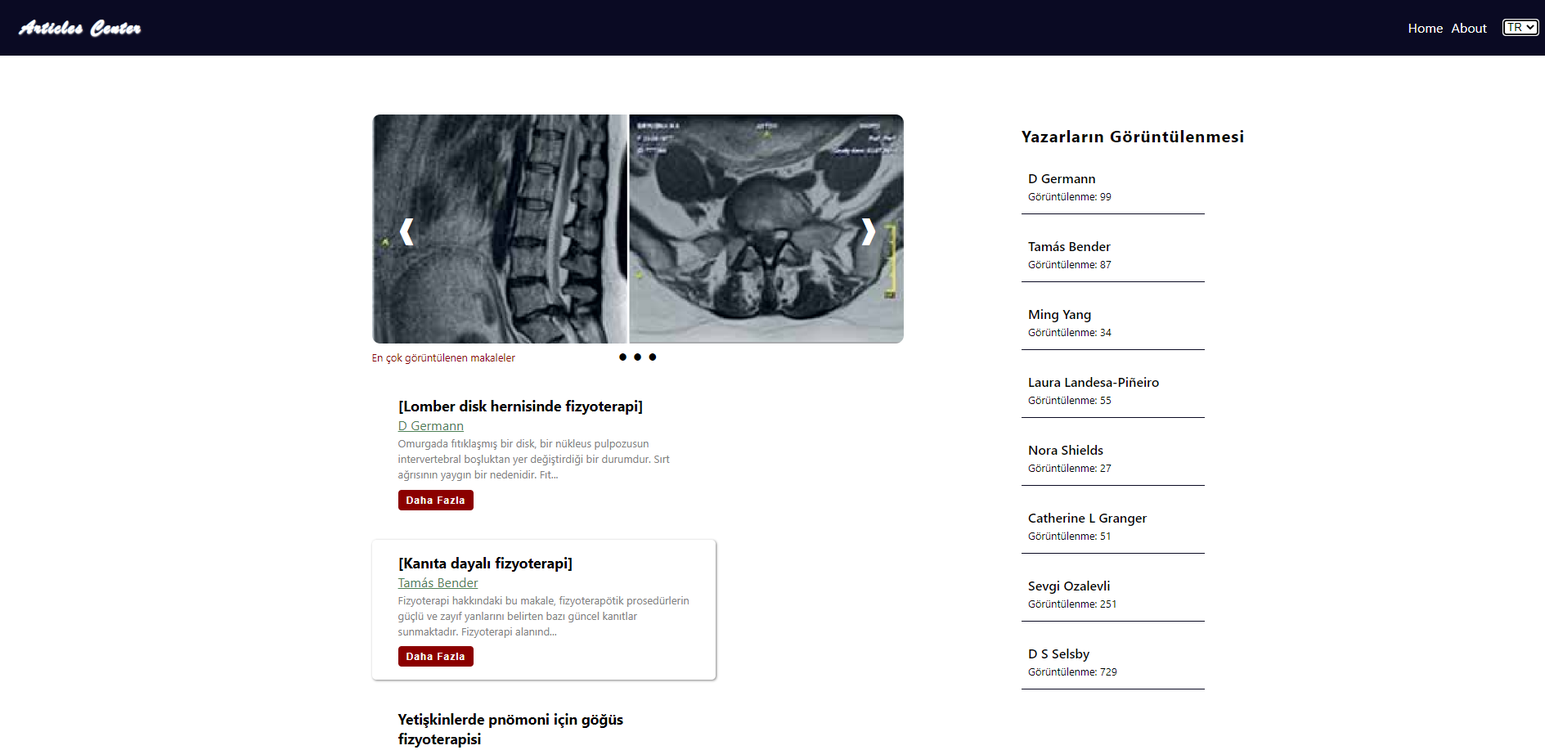
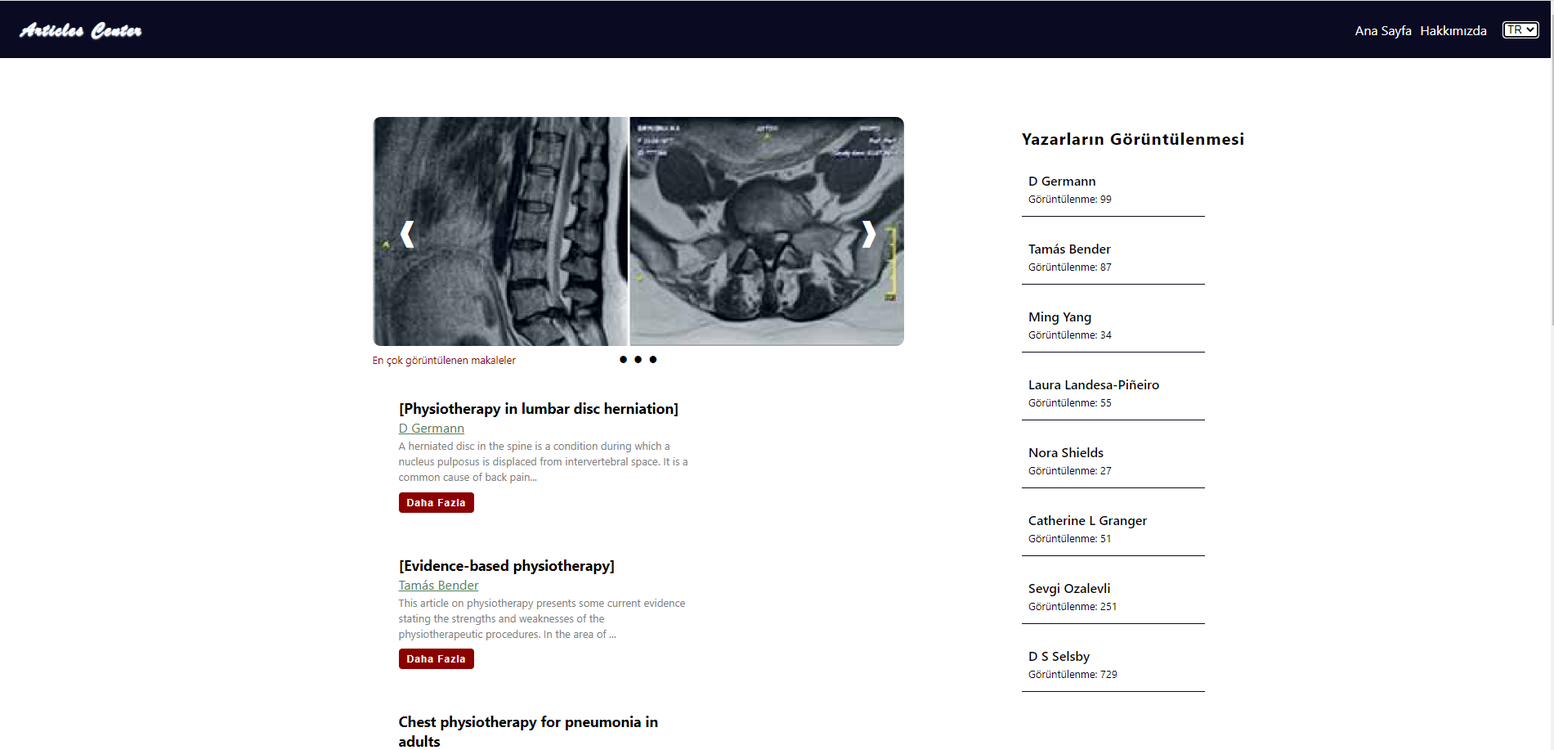
The project is updated

diff --git a/src/data.js b/src/data.js
@@ -1,5 +1,4 @@
-const database = {
-    "en": [{
+const database = [{
         "id": 1,
         "author": "D Germann",
         "title": "[Physiotherapy in lumbar disc herniation]",
@@ -7,7 +6,7 @@ const database = {
         "views": 99,
         "url": "https://www.researchgate.net/publication/327683589/figure/fig1/AS:677044715274245@1538431447911/MRI-before-surgery-L5-S1-LDH-Sagittal-A-and-axial-B-planes.png",
         "profile-image" : "https://encrypted-tbn0.gstatic.com/images?q=tbn:ANd9GcSE26NjQaonqTRt7BXD_87Iuukitk_kcGBv3w&usqp=CAU",
-        "bio": "lanna is a Registered Physiotherapist with degrees from the University of Western Ontario (Honours Specialization in Health Sciences and Masters in Physical Therapy).<sup><a href='#'>[1]</a></sup> She has worked in a variety of settings, encompassing sports medicine, pediatrics and orthopedic surgery through Cambridge Memorial Hospital. Alanna is particularly interested in manual therapy and acupuncture. She is certified by the Acupuncture Foundation of Canada Institute and has also been trained in advanced manual therapy courses. She is currently completing the McKenzie Technique program for the treatment of neck and back pain.<sup><a href='#'>[2]</a></sup> When asked why she chose her current profession, Alanna replied, “I enjoy helping people of all ages suffering from injury, illness or disability, through exercise, manual therapy, education and advice. If I can have an impact on a person’s overall health, happiness and ability to live their life to the fullest then I am truly satisfied.” Outside of work, Alanna indulges in such activities as swimming, hiking, reading, writing and spending time with friends and family. In the summer, she particularly enjoys spending time at her cottage."
+        "bio": "lanna is a Registered Physiotherapist with degrees from the University of Western Ontario (Honours Specialization in Health Sciences and Masters in Physical Therapy). She has worked in a variety of settings, encompassing sports medicine, pediatrics and orthopedic surgery through Cambridge Memorial Hospital. Alanna is particularly interested in manual therapy and acupuncture. She is certified by the Acupuncture Foundation of Canada Institute and has also been trained in advanced manual therapy courses. She is currently completing the McKenzie Technique program for the treatment of neck and back pain. When asked why she chose her current profession, Alanna replied, “I enjoy helping people of all ages suffering from injury, illness or disability, through exercise, manual therapy, education and advice. If I can have an impact on a person’s overall health, happiness and ability to live their life to the fullest then I am truly satisfied.” Outside of work, Alanna indulges in such activities as swimming, hiking, reading, writing and spending time with friends and family. In the summer, she particularly enjoys spending time at her cottage."
     },
     {
         "id": 2,
@@ -78,88 +77,7 @@ const database = {
         "url": "https://encrypted-tbn0.gstatic.com/images?q=tbn:ANd9GcQ6Zef_sDGJpAMkK69MlXysi76uw9oGhlW2vg&usqp=CAU",
         "profile-image" : "https://encrypted-tbn0.gstatic.com/images?q=tbn:ANd9GcSE26NjQaonqTRt7BXD_87Iuukitk_kcGBv3w&usqp=CAU",
         "bio": "lanna is a Registered Physiotherapist with degrees from the University of Western Ontario (Honours Specialization in Health Sciences and Masters in Physical Therapy). She has worked in a variety of settings, encompassing sports medicine, pediatrics and orthopedic surgery through Cambridge Memorial Hospital. Alanna is particularly interested in manual therapy and acupuncture. She is certified by the Acupuncture Foundation of Canada Institute and has also been trained in advanced manual therapy courses. She is currently completing the McKenzie Technique program for the treatment of neck and back pain. When asked why she chose her current profession, Alanna replied, “I enjoy helping people of all ages suffering from injury, illness or disability, through exercise, manual therapy, education and advice. If I can have an impact on a person’s overall health, happiness and ability to live their life to the fullest then I am truly satisfied.” Outside of work, Alanna indulges in such activities as swimming, hiking, reading, writing and spending time with friends and family. In the summer, she particularly enjoys spending time at her cottage."
-    }],
-    "tr": [{
-        "id": 1,
-        "author": "D Germann",
-        "title": "[Lomber disk hernisinde fizyoterapi]",
-        "body": "Omurgada fıtıklaşmış bir disk, bir nükleus pulpozusun intervertebral boşluktan yer değiştirdiği bir durumdur. Sırt ağrısının yaygın bir nedenidir. Fıtıklaşmış bir diskle ilgili ağrı yaşayan hasta, genellikle ağrılarına neden olan kışkırtıcı bir olayı hatırlar. Mekanik sırt ağrısının aksine, fıtıklaşmış disk ağrısı genellikle yanar veya batar ve alt ekstremiteye yayılabilir. Ayrıca, daha ciddi vakalarda, zayıflık veya duyum değişiklikleri ile ilişkili olabilir.<sup><a href='#footnote1'>[1]</a></sup> Bazı durumlarda, fıtıklaşmış bir disk yaralanması, sinir veya omuriliği sıkıştırabilir ve miyelopati olarak da bilinen sinir sıkışması veya omurilik disfonksiyonu ile tutarlı ağrıya neden olabilir. Fizyoterapi, lomber disk herniasyonunun neden olduğu semptomları olan hastalarda tercih edilen tedavidir. Klinik uygulamada, çok çeşitli fizyoterapötik yöntemlerin yardımcı olduğu ortaya çıkmıştır. Akut aşamada, kör bir değerlendirici ile randomize kontrollü çalışmalarda McKenzie-konseptinin, mobilizasyon tedavilerinin ve çekişin etkinliği gösterilmiştir. Ek olarak, soğuk algınlığı veya elektroterapi ve steroidal olmayan antienflamatuar ilaçlar, analjezikler ve / veya kas gevşeticiler gibi ağrıyı azaltan fizyoterapiler, başlangıçtaki tedavilerdir. Kronik aşamada hastalarda sırt ve karın kaslarının lokal kuvvet dayanıklılığının eğitimi gibi aktif fizyoterapilerin etkinliği kanıtlanmıştır. Yatan hasta rehabilitasyon programı, cerrahi endikasyonları ve kronik bel ağrısı gelişme tehlikesi tartışılmaktadır. <p id='footnote1' style='font-size: .7rem;'>[1] Dipnot 1</p>",
-        "views": 99,
-        "url": "https://www.researchgate.net/publication/327683589/figure/fig1/AS:677044715274245@1538431447911/MRI-before-surgery-L5-S1-LDH-Sagittal-A-and-axial-B-planes.png",
-        "profile-image" : "https://encrypted-tbn0.gstatic.com/images?q=tbn:ANd9GcSE26NjQaonqTRt7BXD_87Iuukitk_kcGBv3w&usqp=CAU",
-        "bio": "lanna, Western Ontario Üniversitesi'nden ( Sağlık Bilimlerinde Onur Uzmanlığı ve Fizik Tedavisinde Yüksek Lisans ) derecelerine sahip Kayıtlı bir Fizyoterapisttir. Cambridge Memorial Hastanesi aracılığıyla spor tıbbı, pediatri ve ortopedik cerrahiyi kapsayan çeşitli ortamlarda çalıştı. Alanna özellikle manuel terapi ve akupunktur ile ilgilenmektedir. Kanada Akupunktur Vakfı tarafından onaylanmıştır ve ayrıca ileri manuel terapi kursları konusunda eğitim almıştır. Halen boyun ve sırt ağrısının tedavisi için McKenzie Technique programını tamamlamaktadır. Şu anki mesleğini neden seçtiği sorulduğunda Alanna, “ Yaralanma, hastalık veya sakatlıktan muzdarip her yaştan insana egzersiz, manuel terapi, eğitim ve tavsiye yoluyla yardım etmekten zevk alıyorum. Bir kişinin genel sağlığı, mutluluğu ve hayatını sonuna kadar yaşayabilme yeteneği üzerinde bir etkisi olabilirsem, gerçekten memnunum. ” İşin dışında Alanna, yüzme, yürüyüş, okuma, yazma ve arkadaşlarınızla ve ailenizle zaman geçirme gibi aktivitelerle uğraşır. Yaz aylarında, özellikle kulübesinde vakit geçirmekten hoşlanır."
-    },
-    {
-        "id": 2,
-        "author": "Tamás Bender",
-        "title": "[Kanıta dayalı fizyoterapi]",
-        "body": "Fizyoterapi hakkındaki bu makale, fizyoterapötik prosedürlerin güçlü ve zayıf yanlarını belirten bazı güncel kanıtlar sunmaktadır. Fizyoterapi alanında, onlarca yıl boyunca elde edilen ampirik veriler, mevcut çalışmaların kanıtlarıyla aşılmıştır. Yazar, fizyoterapinin büyük problemine, yani uygulanan parametrelerin heterojenliğine dikkat çekiyor.<sup><a href='#footnote1'>[1]</a></sup> Mevcut kanıt bilgisi doktorlar için çok önemli ve yararlı olabilir, ancak yazar pratik açıdan, sürprize dayanan ve yıllarca kullanılan fizyoterapötik prosedürlerin tamamen ihmal edilmemesi gerekir. Günümüzde fizyoterapi lokomotor hastalıkların tedavisinde önemli bir rol oynamaktadır, ancak diğer tıp alanlarında da kullanımı artmaktadır. 20 yıl önce, ‘ başlıklı bir başyazı Şimdi kanıta dayalı fizyoterapi zamanı ’ fizyoterapi tedavilerinin etkinliği konusunda yüksek kaliteli araştırma ihtiyacını vurguladı.1 Bugün, fizyoterapistlerin klinik uygulamaya kanıta dayalı bir yaklaşım seçmelerine izin vermek için yeterli kanıtımız var. Örneğin, Fizyoterapi Kanıt Veritabanı ( PEDro ) yaklaşık 40.000 randomize kontrollü çalışmayı, sistematik incelemeyi ve klinik uygulama yönergelerini endeksler. Son zamanlarda, fizyoterapi dernekleri fizyoterapi hizmetlerinin pazarlamasını önemli ölçüde artırmıştır. Bu, hızla genişleyen bir işgücünü ve halkın tıbbi tedaviye ihtiyaç duymadan doğrudan fizyoterapiye erişmesine izin veren daha fazla yargı alanını yansıtmaktadır.<sup><a href='#footnote2'>[2]</a></sup> Fizyoterapinin pazarlanması bazen kanıtlara dayanır, ancak diğer zamanlarda kanıtlarla desteklenmeyen fizyoterapist roller ve hizmetler için iddialarda bulunur. Bu halkı yanlış yönlendirebilir ve dikkati fizyoterapi içindeki güçlü kanıt tabanından uzaklaştırabilir. Fizyoterapi derneklerinin web sitelerinden ve ABD, Avustralya ve İngiltere'den önde gelen fizyoterapi dergilerinden bu pazarlama örneklerini düşünün. <p id='footnote1' style='font-size: .7rem;'>[1] Dipnot 1</p> <p id='footnote2' style='font-size: .7rem;'>[2] Dipnot 2</p>",
-        "views": 87,
-        "url": "https://www.erwcpt.eu/picture/339",
-        "profile-image" : "https://encrypted-tbn0.gstatic.com/images?q=tbn:ANd9GcSE26NjQaonqTRt7BXD_87Iuukitk_kcGBv3w&usqp=CAU",
-        "bio": "lanna, Western Ontario Üniversitesi'nden ( Sağlık Bilimlerinde Onur Uzmanlığı ve Fizik Tedavisinde Yüksek Lisans ) derecelerine sahip Kayıtlı bir Fizyoterapisttir. Cambridge Memorial Hastanesi aracılığıyla spor tıbbı, pediatri ve ortopedik cerrahiyi kapsayan çeşitli ortamlarda çalıştı. Alanna özellikle manuel terapi ve akupunktur ile ilgilenmektedir. Kanada Akupunktur Vakfı tarafından onaylanmıştır ve ayrıca ileri manuel terapi kursları konusunda eğitim almıştır. Halen boyun ve sırt ağrısının tedavisi için McKenzie Technique programını tamamlamaktadır. Şu anki mesleğini neden seçtiği sorulduğunda Alanna, “ Yaralanma, hastalık veya sakatlıktan muzdarip her yaştan insana egzersiz, manuel terapi, eğitim ve tavsiye yoluyla yardım etmekten zevk alıyorum. Bir kişinin genel sağlığı, mutluluğu ve hayatını sonuna kadar yaşayabilme yeteneği üzerinde bir etkisi olabilirsem, gerçekten memnunum. ” İşin dışında Alanna, yüzme, yürüyüş, okuma, yazma ve arkadaşlarınızla ve ailenizle zaman geçirme gibi aktivitelerle uğraşır. Yaz aylarında, özellikle kulübesinde vakit geçirmekten hoşlanır."
-    },
-    {
-        "id": 3,
-        "author": "Ming Yang",
-        "title": "Yetişkinlerde pnömoni için göğüs fizyoterapisi",
-        "body": "Göğüs Fizyoterapisi ( CPT ) tipik olarak başka bir bireyin ( örneğin bakıcı, eğitimli aile üyesinin, veya solunum terapisti ) hastanın göğüs duvarında göğüs perküsyonunu manuel olarak yapmak için.  Göğüs perküsyonu, mukusu parçalamak ve birikmeyi önlemek için bir kişinin göğüs duvarında manuel olarak alkışlamak olarak tanımlanır. Bununla birlikte, bu tekniğin etkili olabilmesi için, mukusu daha küçük hava yollarından daha büyük olanlara taşımaya yardımcı olan titreşimler oluşturmak için alkışlama tekrarlanan ve ritmik bir vuruş sırasında yapılmalıdır, daha kolay öksürülür. Göğüs fizyoterapisi ( göğüs fizik tedavisi olarak da adlandırılır ), hastaların solunum fonksiyonlarını iyileştirmelerine ve hava yolu tıkanıklığını önlemelerine yardımcı olmak için tasarlanmış bir grup tedaviyi tanımlamaz. Örneğin, göğüs fizik tedavisine genellikle mukus ( ve postüral drenajın yerinden çıkmasına yardımcı olmak için kullanılan ) titreşimleri eşlik eder. Postüral drenaj, hastaların akciğerlerin farklı bölgelerinden mukusu ağzına boşaltmasına yardımcı olmak için yerçekimine dayanan bir tekniktir. Göğüs perküsyonunu titreşimler ve postüral drenaj ile birleştirerek, bu teknikler mukusu parçalamak ve yukarı doğru hareket ettirmek için birlikte çalışır, burada hava yollarınızdan atmanın daha kolay olduğu yerlerde. Çelişkili kanıtlara rağmen, göğüs fizyoterapisi pnömonili yetişkinler için ek bir tedavi olarak yaygın olarak kullanılmaktadır. Yetişkinlerde pnömoni için göğüs fizyoterapisinin etkinliğini ve güvenliğini değerlendirmek. CENTRAL 2012, Sayı 11, MEDLINE ( 1966 - 2 Kasım 2012 ), EMBASE ( 1974 - Kasım 2012 ), Fizyoterapi Kanıt Veritabanı ( PEDro ) ( 1, CINAHL ( 2009 - Kasım 2012 ) ve CBM ( 1978 - Kasım 2012 ). Randomize kontrollü çalışmalar ( RCT'ler ) yetişkinlerde pnömoni tedavisinde göğüs fizyoterapisinin etkinliğini değerlendirir. İki yazar bağımsız olarak deneme uygunluğunu değerlendirdi, verileri çıkardı ve deneme kalitesini değerlendirdi. Birincil sonuçlar mortalite ve tedavi oranıdır. Veri analizinde bireysel deneme sonuçları için ( RR ) risk oranları ve ortalama fark ( MD ) kullandık.<sup><a href='#footnote1'>[1]</a></sup> Meta analiz yaptık ve tüm sonuçları% 95 güven aralığı ( CI ) ile ölçtük. Mevcut sınırlı kanıtlara dayanarak, yetişkinlerde pnömoni için rutin ek tedavi olarak göğüs fizyoterapisi önerilmeyebilir.<p id='footnote1' style='font-size: .7rem;'>[1] Dipnot 1</p>",
-        "views": 34,
-        "url": "https://encrypted-tbn0.gstatic.com/images?q=tbn:ANd9GcR-ZmY-j91SptMhwZztRsKgJ-Mp6HB-0oag1g&usqp=CAU",
-        "profile-image" : "https://encrypted-tbn0.gstatic.com/images?q=tbn:ANd9GcSE26NjQaonqTRt7BXD_87Iuukitk_kcGBv3w&usqp=CAU",
-        "bio": "lanna, Western Ontario Üniversitesi'nden ( Sağlık Bilimlerinde Onur Uzmanlığı ve Fizik Tedavisinde Yüksek Lisans ) derecelerine sahip Kayıtlı bir Fizyoterapisttir. Cambridge Memorial Hastanesi aracılığıyla spor tıbbı, pediatri ve ortopedik cerrahiyi kapsayan çeşitli ortamlarda çalıştı. Alanna özellikle manuel terapi ve akupunktur ile ilgilenmektedir. Kanada Akupunktur Vakfı tarafından onaylanmıştır ve ayrıca ileri manuel terapi kursları konusunda eğitim almıştır. Halen boyun ve sırt ağrısının tedavisi için McKenzie Technique programını tamamlamaktadır. Şu anki mesleğini neden seçtiği sorulduğunda Alanna, “ Yaralanma, hastalık veya sakatlıktan muzdarip her yaştan insana egzersiz, manuel terapi, eğitim ve tavsiye yoluyla yardım etmekten zevk alıyorum. Bir kişinin genel sağlığı, mutluluğu ve hayatını sonuna kadar yaşayabilme yeteneği üzerinde bir etkisi olabilirsem, gerçekten memnunum. ” İşin dışında Alanna, yüzme, yürüyüş, okuma, yazma ve arkadaşlarınızla ve ailenizle zaman geçirme gibi aktivitelerle uğraşır. Yaz aylarında, özellikle kulübesinde vakit geçirmekten hoşlanır."
-    },
-    {
-        "id": 4,
-        "author": "Laura Landesa-Piñeiro",
-        "title": "Lateral epikondilitin fizyoterapi tedavisi: Sistematik bir inceleme",
-        "body": "Lateral epikondilit, 35-54 yaş arası nüfusun% 1-3'ü arasında bir prevalansa sahip bir tendinopatidir. Olumlu bir evrime sahip bir patolojidir, ancak ekonomik bir ekstra maliyet ( anlamına gelen sık tekrarlar ) ile.Bu derlemenin amacı, epikondilit tedavisi için fizyoterapi tedavisinin etkinliğini belirlemek ve varsa en uygun teknikleri tanımlamaktı. Ekim 2020'de PubMed, Cinahl, Scopus, Medline ve Web of Science veritabanlarında arama terimleri kullanılarak sistematik bir araştırma yapılmıştır: Fizik tedavi yöntemleri, Fiziksel ve rehabilitasyon tıbbı, Rehabilitasyon, Tenisçi dirseği ve Dirsek tendinopatisi. Yedi uygulanan şok dalgası, üç uygulamalı ortoz, üç farklı manuel terapi tekniği, iki tanesi bir çeşit bandaj, bir uygulamalı terapötik egzersiz, biri diakutanöz fibroliz, biri yüksek yoğunluklu lazer ve biri titreşim uyguladı. Manuel terapi ve eksantrik kuvvet antrenmanı, en büyük faydalı etkilere sahip iki fizyoterapötik tedavi yöntemidir ve ayrıca maliyet-fayda oranları çok uygundur. Şok dalgaları, bandajlar veya Kinesio ® bantlama gibi diğer tekniklerle tamamlanması, terapötik hedeflerin gerçekleştirilmesini kolaylaştırır, ancak ek bir maliyet gerektirir.<sup><a href='#footnote1'>[1]</a></sup><p id='footnote1' style='font-size: .7rem;'>[1] Dipnot 1</p>",
-        "views": 55,
-        "url": "https://encrypted-tbn0.gstatic.com/images?q=tbn:ANd9GcTxGjPVjk51pp64l3X0YXrvFBzqz8iO0rpSTQ&usqp=CAU",
-        "profile-image" : "https://encrypted-tbn0.gstatic.com/images?q=tbn:ANd9GcSE26NjQaonqTRt7BXD_87Iuukitk_kcGBv3w&usqp=CAU",
-        "bio": "lanna, Western Ontario Üniversitesi'nden ( Sağlık Bilimlerinde Onur Uzmanlığı ve Fizik Tedavisinde Yüksek Lisans ) derecelerine sahip Kayıtlı bir Fizyoterapisttir. Cambridge Memorial Hastanesi aracılığıyla spor tıbbı, pediatri ve ortopedik cerrahiyi kapsayan çeşitli ortamlarda çalıştı. Alanna özellikle manuel terapi ve akupunktur ile ilgilenmektedir. Kanada Akupunktur Vakfı tarafından onaylanmıştır ve ayrıca ileri manuel terapi kursları konusunda eğitim almıştır. Halen boyun ve sırt ağrısının tedavisi için McKenzie Technique programını tamamlamaktadır. Şu anki mesleğini neden seçtiği sorulduğunda Alanna, “ Yaralanma, hastalık veya sakatlıktan muzdarip her yaştan insana egzersiz, manuel terapi, eğitim ve tavsiye yoluyla yardım etmekten zevk alıyorum. Bir kişinin genel sağlığı, mutluluğu ve hayatını sonuna kadar yaşayabilme yeteneği üzerinde bir etkisi olabilirsem, gerçekten memnunum. ” İşin dışında Alanna, yüzme, yürüyüş, okuma, yazma ve arkadaşlarınızla ve ailenizle zaman geçirme gibi aktivitelerle uğraşır. Yaz aylarında, özellikle kulübesinde vakit geçirmekten hoşlanır."
-    },
-    {
-        "id": 5,
-        "author": "Nora Shields",
-        "title": "Down Sendromunda Fizyoterapi Yönetimi",
-        "body": "Geçen yüzyıl boyunca, Down sendromu ile doğan insanların yaşam beklentisi 9'dan 60 yıla yükseldi, 1 bir nesil içindeki genel popülasyona uygun olabileceğini gösteren verilerle.<sup><a href='#footnote1'>[1]</a></sup> 2 Hayatta kalmadaki bu hızlı artış, büyük ölçüde kalp kusurlarının daha erken cerrahi olarak düzeltilmesi, enfeksiyonların daha iyi tedavisi ve genel sağlık hizmetlerinin iyileştirilmesinden kaynaklanmaktadır.3 Ancak bu başarı, Down sendromlu yetişkinlerde önemli ölçüde daha yüksek risk ve çeşitli kronik sağlık durumlarının erken başlaması, özellikle 40'lı yaşların başında başlayan bilişsel düşüş nedeniyle temperlenir.<p id='footnote1' style='font-size: .7rem;'>[1] Dipnot 1</p>",
-        "views": 27,
-        "url": "https://i2.milimaj.com/i/milliyet/75/0x0/602d3ac35542801a34e05014.jpg",
-        "profile-image" : "https://encrypted-tbn0.gstatic.com/images?q=tbn:ANd9GcSE26NjQaonqTRt7BXD_87Iuukitk_kcGBv3w&usqp=CAU",
-        "bio": "lanna, Western Ontario Üniversitesi'nden ( Sağlık Bilimlerinde Onur Uzmanlığı ve Fizik Tedavisinde Yüksek Lisans ) derecelerine sahip Kayıtlı bir Fizyoterapisttir. Cambridge Memorial Hastanesi aracılığıyla spor tıbbı, pediatri ve ortopedik cerrahiyi kapsayan çeşitli ortamlarda çalıştı. Alanna özellikle manuel terapi ve akupunktur ile ilgilenmektedir. Kanada Akupunktur Vakfı tarafından onaylanmıştır ve ayrıca ileri manuel terapi kursları konusunda eğitim almıştır. Halen boyun ve sırt ağrısının tedavisi için McKenzie Technique programını tamamlamaktadır. Şu anki mesleğini neden seçtiği sorulduğunda Alanna, “ Yaralanma, hastalık veya sakatlıktan muzdarip her yaştan insana egzersiz, manuel terapi, eğitim ve tavsiye yoluyla yardım etmekten zevk alıyorum. Bir kişinin genel sağlığı, mutluluğu ve hayatını sonuna kadar yaşayabilme yeteneği üzerinde bir etkisi olabilirsem, gerçekten memnunum. ” İşin dışında Alanna, yüzme, yürüyüş, okuma, yazma ve arkadaşlarınızla ve ailenizle zaman geçirme gibi aktivitelerle uğraşır. Yaz aylarında, özellikle kulübesinde vakit geçirmekten hoşlanır."
-    },
-    {
-        "id": 6,
-        "author": "Catherine L Granger ",
-        "title": "Akciğer kanserinde fizyoterapi yönetimi",
-        "body": "Akciğer kanseri önemli morbidite ve mortalite ile ilişkilidir ve sağlık sistemleri için önemli bir yüktür. Fizyoterapistler akciğer kanseri olan kişilerin tedavisinde önemli bir rol oynamaktadır. Son on yılda yapılan araştırmalardaki ilerlemeler, özellikle egzersiz eğitiminin kullanımını desteklemek, akciğer kanserinde fizyoterapinin rolünü hızla ilerletmiştir. Bu derleme, akciğer kanseri ile ilişkili yükü, özellikle fizyoterapi müdahalelerine odaklanan akciğer kanserinin yönetimini ve araştırma ve klinik uygulama için gelecekteki yönleri özetlemektedir.<sup><a href='#footnote1'>[1]</a></sup><p id='footnote1' style='font-size: .7rem;'>[1] Dipnot 1</p>",
-        "views": 51,
-        "url": "https://encrypted-tbn0.gstatic.com/images?q=tbn:ANd9GcRAoCCW4wmCCix5F64a1v05q-56DpdtTgoY9Q&usqp=CAU",
-        "profile-image" : "https://encrypted-tbn0.gstatic.com/images?q=tbn:ANd9GcSE26NjQaonqTRt7BXD_87Iuukitk_kcGBv3w&usqp=CAU",
-        "bio": "lanna, Western Ontario Üniversitesi'nden ( Sağlık Bilimlerinde Onur Uzmanlığı ve Fizik Tedavisinde Yüksek Lisans ) derecelerine sahip Kayıtlı bir Fizyoterapisttir. Cambridge Memorial Hastanesi aracılığıyla spor tıbbı, pediatri ve ortopedik cerrahiyi kapsayan çeşitli ortamlarda çalıştı. Alanna özellikle manuel terapi ve akupunktur ile ilgilenmektedir. Kanada Akupunktur Vakfı tarafından onaylanmıştır ve ayrıca ileri manuel terapi kursları konusunda eğitim almıştır. Halen boyun ve sırt ağrısının tedavisi için McKenzie Technique programını tamamlamaktadır. Şu anki mesleğini neden seçtiği sorulduğunda Alanna, “ Yaralanma, hastalık veya sakatlıktan muzdarip her yaştan insana egzersiz, manuel terapi, eğitim ve tavsiye yoluyla yardım etmekten zevk alıyorum. Bir kişinin genel sağlığı, mutluluğu ve hayatını sonuna kadar yaşayabilme yeteneği üzerinde bir etkisi olabilirsem, gerçekten memnunum. ” İşin dışında Alanna, yüzme, yürüyüş, okuma, yazma ve arkadaşlarınızla ve ailenizle zaman geçirme gibi aktivitelerle uğraşır. Yaz aylarında, özellikle kulübesinde vakit geçirmekten hoşlanır."
-    },
-    {
-        "id": 7,
-        "author": "Sevgi Ozalevli",
-        "title": "İleri seviye akciğer kanseri hastalarda fizyoterapinin etkisi",
-        "body": "Akciğer kanseri olan hastalar yüksek mortalite ve yüksek morbiditeye sahiptir. Akciğer kanseri ile ilgili semptomlar ve dispne, yorgunluk, ağrı ve kaşeksi gibi erken aşamada başlayan problemler, fiziksel işleyişin zayıf olmasına, psikososyal ve yaşam kalitesi durumuna neden olur. Ek olarak, ilerleyen yaş önemli komorbidite ile ilişkilidir. Bu hastalar, dispne ve yorgunluğun algılanan şiddetini azaltmak ve fiziksel işlevselliği ve yaşam kalitesini artırmak için multidisipliner tedaviden yararlanabilir. Dispne, fiziksel hareketsizlik, kansere bağlı yorgunluk, solunum sekresyonları, ağrı ve anksiyete depresyonu gibi semptom ve sorunların yönetimine dayanarak, kapsamlı bir değerlendirmenin ardından ileri akciğer kanseri hastalarında fizyoterapi tekniklerinin kullanılabileceği düşünülmektedir. Bununla birlikte, ileri akciğer kanseri olan hastalarda genel olarak fizyoterapi ve pulmoner rehabilitasyonun etkinliğini kanıtlamak için iyi tasarlanmış, prospektif ve randomize kontrollü çalışmalara ihtiyaç vardır.<sup><a href='#footnote1'>[1]</a></sup><p id='footnote1' style='font-size: .7rem;'>[1] Dipnot 1</p>",
-        "views": 251,
-        "url": "https://encrypted-tbn0.gstatic.com/images?q=tbn:ANd9GcSKRyy30V--TIGPIkjc2EWPg3P-oG8QcXN_hA&usqp=CAU",
-        "profile-image" : "https://encrypted-tbn0.gstatic.com/images?q=tbn:ANd9GcSE26NjQaonqTRt7BXD_87Iuukitk_kcGBv3w&usqp=CAU",
-        "bio": "lanna, Western Ontario Üniversitesi'nden ( Sağlık Bilimlerinde Onur Uzmanlığı ve Fizik Tedavisinde Yüksek Lisans ) derecelerine sahip Kayıtlı bir Fizyoterapisttir. Cambridge Memorial Hastanesi aracılığıyla spor tıbbı, pediatri ve ortopedik cerrahiyi kapsayan çeşitli ortamlarda çalıştı. Alanna özellikle manuel terapi ve akupunktur ile ilgilenmektedir. Kanada Akupunktur Vakfı tarafından onaylanmıştır ve ayrıca ileri manuel terapi kursları konusunda eğitim almıştır. Halen boyun ve sırt ağrısının tedavisi için McKenzie Technique programını tamamlamaktadır. Şu anki mesleğini neden seçtiği sorulduğunda Alanna, “ Yaralanma, hastalık veya sakatlıktan muzdarip her yaştan insana egzersiz, manuel terapi, eğitim ve tavsiye yoluyla yardım etmekten zevk alıyorum. Bir kişinin genel sağlığı, mutluluğu ve hayatını sonuna kadar yaşayabilme yeteneği üzerinde bir etkisi olabilirsem, gerçekten memnunum. ” İşin dışında Alanna, yüzme, yürüyüş, okuma, yazma ve arkadaşlarınızla ve ailenizle zaman geçirme gibi aktivitelerle uğraşır. Yaz aylarında, özellikle kulübesinde vakit geçirmekten hoşlanır."
-    },
-    {
-        "id": 8,
-        "author": "D S Selsby",
-        "title": "Göğüs Fiyoterapisi",
-        "body": "Solunum fizyoterapisi, fizyoterapi mesleğinde temel bir uzmanlık alanıdır ve solunum yolu hastalıkları olan hastaların tedavisinde ve tedavisinde kilit bir rol oynamaktadır. Hastanın hava yollarının tıkanmasını ve fiziksel aktiviteye ve eforlara dönmelerine yardımcı olmayı amaçlamaktadır. Solunum fizyoterapisti, solunum yolu hastalıkları ile ilişkili semptomlar üzerinde faydalı etkileri olan pulmoner rehabilitasyon, erken mobilizasyon ve hava yolu temizleme teknikleri gibi birçok farklı müdahale kullanır. Örneğin, balgam klerensi ve öksürük etkinliği, dispne azalması ve fiziksel zindeliğin artması. Yararlı etkiler, fonksiyonel sağlık hizmetlerinin iyileştirilmesi ve yoğun bakım ve hastanede kalış süresinin azalması ile birlikte sağlık bakım maliyetlerinde tasarruf ile gösterilmiştir. Solunum bakımı konusunda uzmanlaşmış fizyoterapistler, Yoğun Bakım Üniteleri ( ICU'lar ), hastane servisleri ve birinci basamak sağlık ortamları gibi çeşitli ortamlarda çalışırlar. Göğüs fizyoterapisinin amacı: Tutulan veya bol miktarda hava yolu sekresyonlarının çıkarılmasını kolaylaştırmak. Akciğer uyumluluğunu ve ventilasyon-perfüzyon oranını optimize etmek / gaz değişimini iyileştirmek. Nefes alma işini azaltmak. Egzersiz toleransını artırın İkincil komplikasyonları önleyin.<sup><a href='#footnote1'>[1]</a></sup><p id='footnote1' style='font-size: .7rem;'>[1] Dipnot 1</p>",
-        "views": 729,
-        "url": "https://encrypted-tbn0.gstatic.com/images?q=tbn:ANd9GcQ6Zef_sDGJpAMkK69MlXysi76uw9oGhlW2vg&usqp=CAU",
-        "profile-image" : "https://encrypted-tbn0.gstatic.com/images?q=tbn:ANd9GcSE26NjQaonqTRt7BXD_87Iuukitk_kcGBv3w&usqp=CAU",
-        "bio": "lanna, Western Ontario Üniversitesi'nden ( Sağlık Bilimlerinde Onur Uzmanlığı ve Fizik Tedavisinde Yüksek Lisans ) derecelerine sahip Kayıtlı bir Fizyoterapisttir. Cambridge Memorial Hastanesi aracılığıyla spor tıbbı, pediatri ve ortopedik cerrahiyi kapsayan çeşitli ortamlarda çalıştı. Alanna özellikle manuel terapi ve akupunktur ile ilgilenmektedir. Kanada Akupunktur Vakfı tarafından onaylanmıştır ve ayrıca ileri manuel terapi kursları konusunda eğitim almıştır. Halen boyun ve sırt ağrısının tedavisi için McKenzie Technique programını tamamlamaktadır. Şu anki mesleğini neden seçtiği sorulduğunda Alanna, “ Yaralanma, hastalık veya sakatlıktan muzdarip her yaştan insana egzersiz, manuel terapi, eğitim ve tavsiye yoluyla yardım etmekten zevk alıyorum. Bir kişinin genel sağlığı, mutluluğu ve hayatını sonuna kadar yaşayabilme yeteneği üzerinde bir etkisi olabilirsem, gerçekten memnunum. ” İşin dışında Alanna, yüzme, yürüyüş, okuma, yazma ve arkadaşlarınızla ve ailenizle zaman geçirme gibi aktivitelerle uğraşır. Yaz aylarında, özellikle kulübesinde vakit geçirmekten hoşlanır."
-    }]
-};
+    }];
 
 
 export default database;

diff --git a/src/App.js b/src/App.js
@@ -10,11 +10,11 @@ import database from "./data";
 
 function App() {
   const [lang, setLang] = React.useState(JSON.parse(localStorage.getItem("lang")) || "en");
-  const [data, setData] = React.useState(database[lang]);
+  const [data, setData] = React.useState(database);
 
   React.useEffect( () => {
     localStorage.setItem("lang", JSON.stringify(lang));
-    setData(database[lang]);
+    setData(database);
     
   }, [lang]);
 

diff --git a/src/components/Navbar.jsx b/src/components/Navbar.jsx
@@ -12,12 +12,12 @@ function Navbar({ lang, setLang }) {
         <ul>
           <li>
             <Link to="/" className="link">
-              Home
+              {lang==="en" ? "Home" : "Ana Sayfa"}
             </Link>
           </li>
           <li>
             <Link to="about" className="link">
-              About
+              {lang==="en" ? "About" : "Hakkımızda"}
             </Link>
           </li>
         </ul>

diff --git a/src/App.css b/src/App.css
@@ -89,8 +89,7 @@ section {
 }
 
 .home article h3 {
-  font-size: 1.1rem;
-  font-style: 2px;  
+  font-size: 1.1rem; 
 }
 
 .home article .author {
@@ -204,7 +203,6 @@ section {
   font-size: 2rem;
   color: var(--textGray);
   margin-bottom: 12px;
-  font-family: 'Brush Script MT', cursive;
   letter-spacing: 1px;
 }
 
